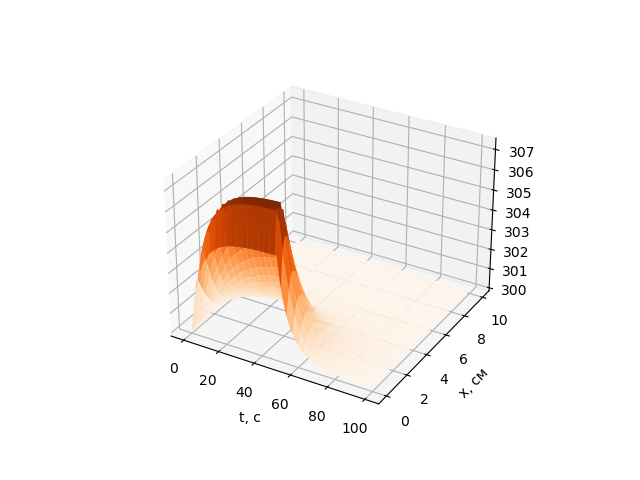
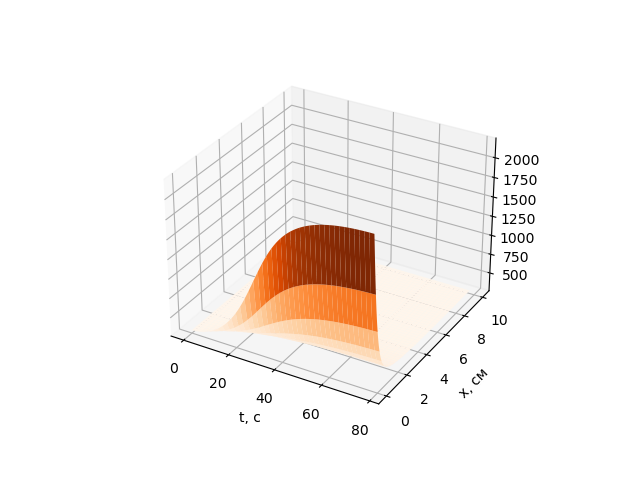
lab4

diff --git a/lab_04/main.py b/lab_04/main.py
@@ -48,7 +48,8 @@ def func_minus_half(func, n, m=None):
 class Solver:
     # a2 = 2.049
     # b2 = 0.563e-3
-    def __init__(self, xmin=0, xmax=10, h=1e-2, tmin=0, tau=1, EPS=None, Fmax=50, tmax=60, a2=2.049, b2=0.563e-3, use_constant_F0t=False):
+    def __init__(self, xmin=0, xmax=10, h=1e-2, tmin=0, tau=1, EPS=None, Fmax=50, tmax=60, a2=2.049, b2=0.563e-3,
+                 use_constant_F0t=False, v=None):
         self.xmin = xmin
         self.xmax = xmax
         self.h = h
@@ -64,6 +65,9 @@ class Solver:
         self.a2 = a2
         self.b2 = b2
         self.use_constant_F0t = use_constant_F0t
+        self.v = v
+        if v and use_constant_F0t:
+            raise ValueError('v and use_constant_F0t simultaneously')
 
     # коэффициент теплопроводимости материала стержня
     def lambda_T(self, n, m):
@@ -93,6 +97,7 @@ class Solver:
 
     # !?
     # импульс излучения
+
     def F0_t(self, m):
         if self.use_constant_F0t:
             if m < self.use_constant_F0t['stop_hitting']:
@@ -101,6 +106,22 @@ class Solver:
                 return 0
 
         t = self.tmin + self.tau * m
+
+        if self.v:
+            if self.v < 1:
+                raise ValueError('v<1')
+            # Импульсы следуют один за другим с заданной частотой v
+            # (частота определяется количеством импульсов в 1 секунду).
+            here_eps = 1e-6
+            imp_each_part = 1 / self.v if self.v != 1 else 0
+            float_part_of_cur_time = t % 1
+            for i in range(self.v): # 1/3 2/3 3/3
+                if abs(float_part_of_cur_time - imp_each_part * i) < here_eps:
+                    #print(f'!!!!!! for m={m}')
+                    return self.Fmax * t * exp(-(t / self.tmax - 1)) / self.tmax
+            # значит  время неподходящее
+            return 0
+
         return self.Fmax * t * exp(-(t / self.tmax - 1)) / self.tmax
         # return Fmax * t_array[m] * exp(-(t_array[m] / tmax - 1)) / tmax
 
@@ -126,8 +147,8 @@ class Solver:
                 iterations_counter += 1
                 if DEBUG:
                     print(f"Iteration {iterations_counter}")
-                if iterations_counter > 1:
-                    print('wow, iteration > 1', iterations_counter)
+                # if iterations_counter > 1:
+                #     print('wow, iteration > 1', iterations_counter)
                 T_m_prev_iteration = self.T[-1]
                 T_m_cur_iteration = self.count_T_array_for_time_m(m)
                 self.T[-1] = T_m_cur_iteration
@@ -201,6 +222,9 @@ class Solver:
               ) / 4)
 
         self.N += 1
+
+        MN, KN = KN, MN
+        M0, K0 = K0, M0
         return {"K0": K0, "M0": M0, "P0": P0,
                 "KN": KN, "MN": MN, "PN": PN,}
 
@@ -248,7 +272,7 @@ class Solver:
             return len(self.T) > self.use_constant_F0t['stop_timing']
         T_array_prev, T_array_new = self.T[-2], self.T[-1]
         for T_prev, T_cur in zip(T_array_prev, T_array_new):
-            if abs((T_prev - T_cur) / T_cur) > 10e-4:
+            if abs((T_prev - T_cur) / T_cur) > 1e-4:
                 return False
         return True
 
@@ -363,8 +387,8 @@ class Solver:
 
 def study_steps():
     print('research')
-    h_array = [1, 0.5, 0.1, 0.01, 0.001]
-    tau_array = [1, 0.5, 0.1]
+    h_array = [0.01, 0.001, 0.0001]
+    tau_array = [1, 0.5]
     results = pd.DataFrame(columns=['h', 'tau', 'balanced', 'M', 'counted'])
     for h in h_array:
         for tau in tau_array:
@@ -373,7 +397,7 @@ def study_steps():
             T, t_array = solver.get_results()
             balanced, counted = solver.check_steps_ok()
             print(f'h={h}, tau={tau}, balanced={balanced}, M={len(t_array)}, counted={counted}')
-            results = results.append({'h':h, 'tau': tau, 'balanced': balanced, 'M': len(t_array), 'counted': counted}, ignore_index=True)
+            results = results.append({'h': h, 'tau': tau, 'balanced': balanced, 'M': len(t_array), 'counted': counted}, ignore_index=True)
     print(results)
     results.to_excel('study_steps.xls')
 
@@ -494,17 +518,43 @@ def test_with_constant_F0_t():
     solver.solve()
     solver.show_results()
     #solver.print_results()
-    print(solver.check_steps_ok())
+
+
+def study4_impuls():
+    print('research impuls')
+    v_array = [1, 10, 20]
+    fig = plt.figure(figsize=(14, 9))
+
+    for i, v in enumerate(v_array):
+        title = f"v={v}"
+        plt.subplot(1, len(v_array), i + 1)
+
+        solver = Solver(v=v, h=1e-2, tau=1e-2)
+        solver.solve()
+        T, t_array = solver.get_results()
+        print(len(T), len(T[0]))
+
+        T_0t = [T_m[0] for T_m in T]
+        plt.xticks(list(range(0, 100, 10)))
+        plt.plot(t_array, T_0t, label=title)
+        plt.legend()
+
+        print(f'v={v}, T_0t={T_0t}')
+
+    plt.savefig(f"v.png")
+    plt.show()
+
+
 
 
 def main():
-    # solver = Solver(h=0.0001)
+    # solver = Solver()
     # solver.solve()
     # solver.show_results()
     # #solver.print_results()
     # print(solver.check_steps_ok())
 
-    #study_steps()
+    # study_steps()
 
 
     # OK
@@ -514,7 +564,9 @@ def main():
     # study5_Ftmax()
 
     # SUPER OK
-    test_with_constant_F0_t()
+    # test_with_constant_F0_t()
+
+    study4_impuls()
 
 
 
